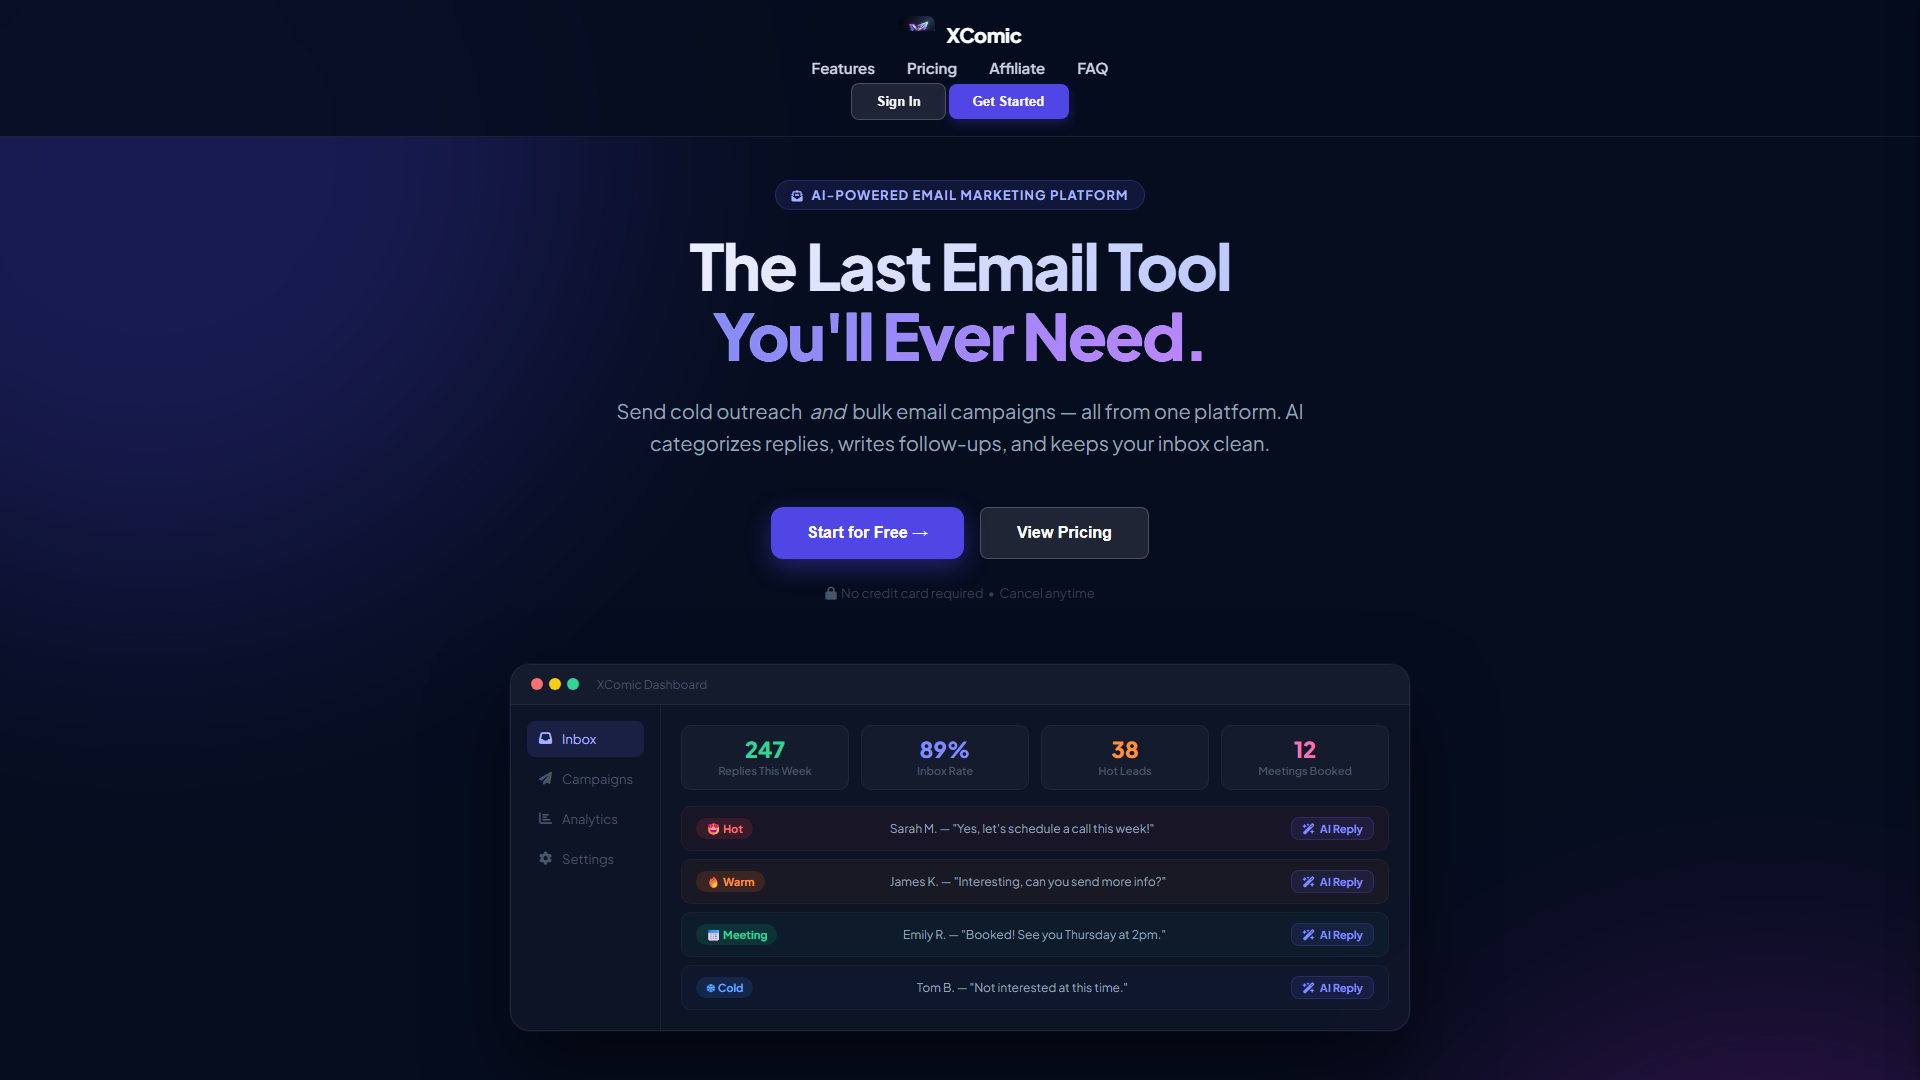
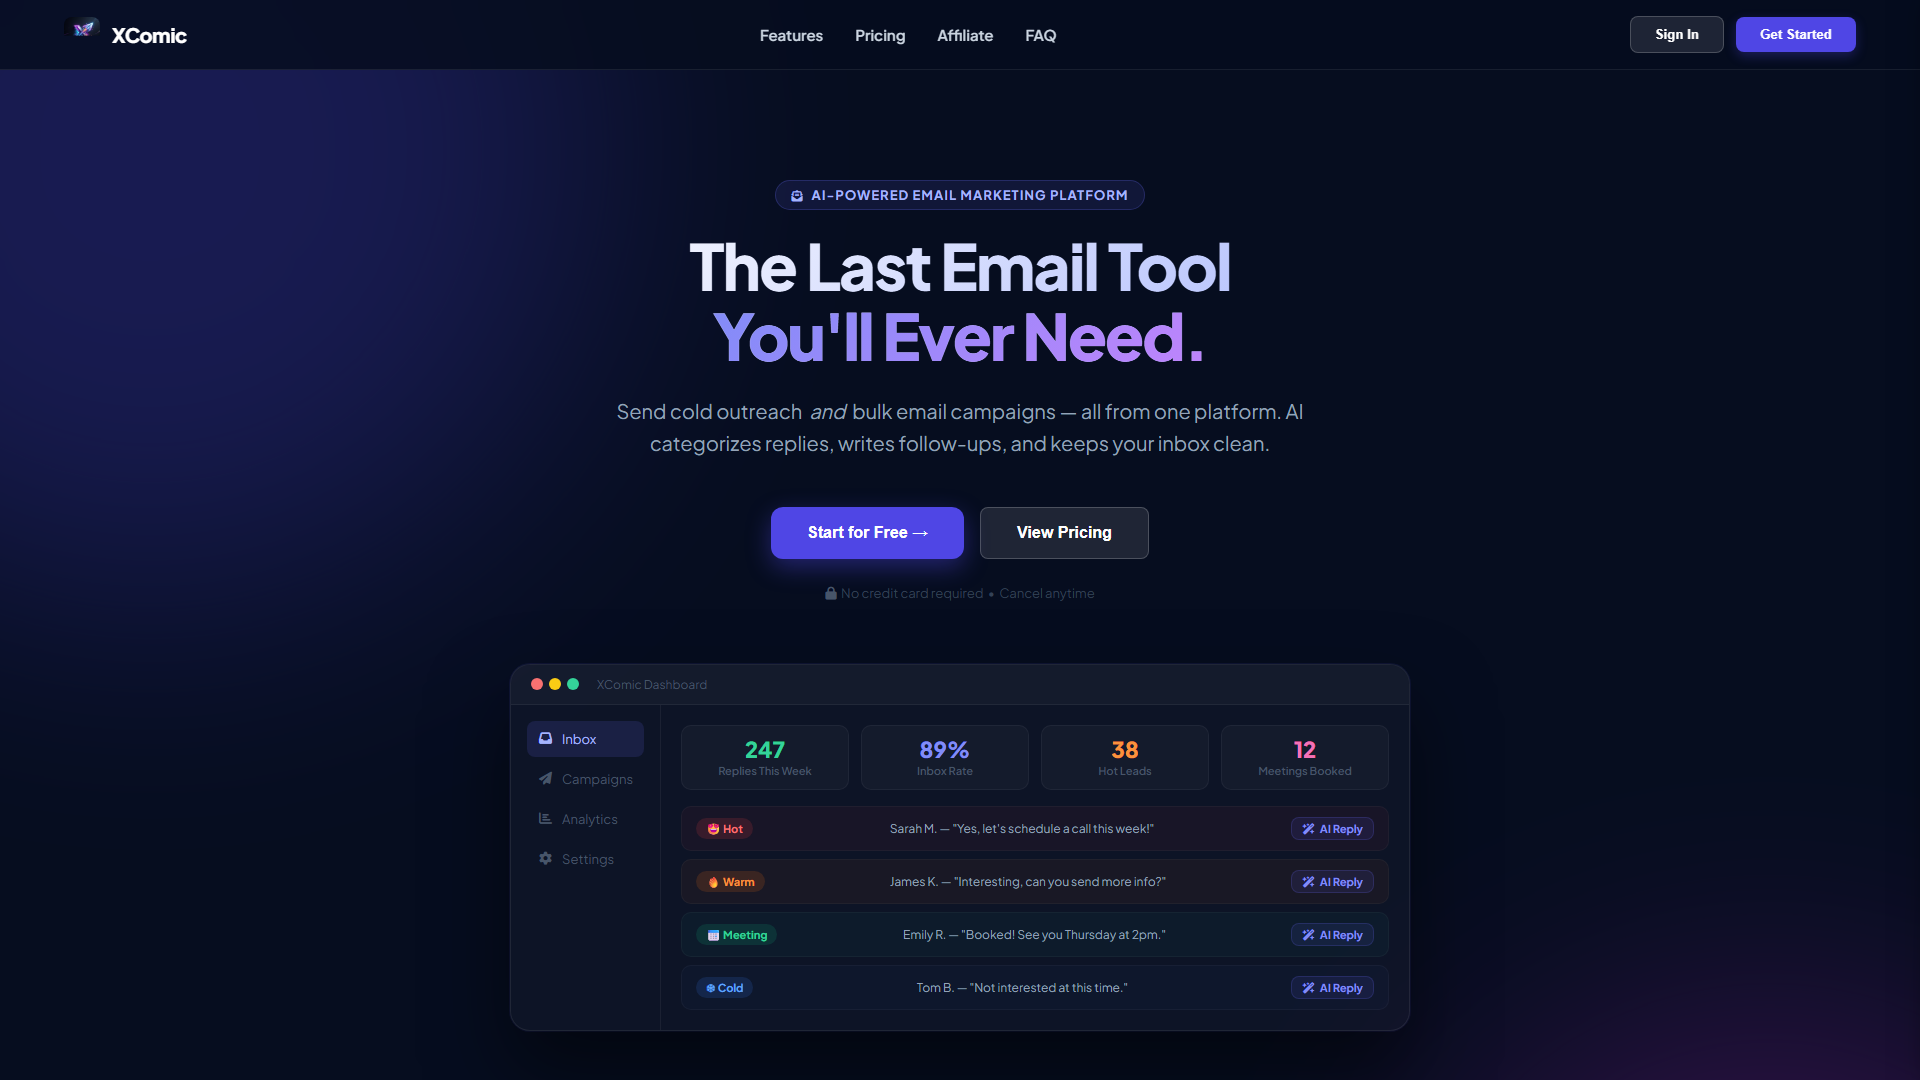
Add mobile-only UX & touch responsiveness optimizations for dashboard, visual builder, tables, and modals

diff --git a/xcomic.xyz/assets/style.css b/xcomic.xyz/assets/style.css
@@ -1485,3 +1485,146 @@ details summary::marker {
     content: "" !important;
 }
 
+/* ============================================================
+   MOBILE DASHBOARD & VISUAL BUILDER UX OPTIMIZATIONS
+   (Strictly scoped to max-width: 900px - NO CHANGES on PC)
+   ============================================================ */
+@media (max-width: 900px) {
+    /* 1. Mobile Visual Builder & Campaign Creation */
+    #campaigns-builder,
+    #cold-mail-builder,
+    .builder-container {
+        padding: 12px 8px !important;
+    }
+    
+    .builder-layout,
+    .visual-builder-layout {
+        flex-direction: column !important;
+        gap: 16px !important;
+    }
+    
+    .builder-sidebar,
+    .builder-sidebar-left,
+    .builder-sidebar-right {
+        width: 100% !important;
+        max-width: 100% !important;
+        max-height: 280px !important;
+        overflow-y: auto !important;
+        border-right: none !important;
+        border-bottom: 1px solid rgba(255,255,255,0.1) !important;
+        padding: 12px !important;
+        box-sizing: border-box !important;
+    }
+    
+    .builder-canvas-wrapper,
+    .builder-canvas {
+        width: 100% !important;
+        min-height: 320px !important;
+        padding: 12px 8px !important;
+        overflow-x: auto !important;
+        box-sizing: border-box !important;
+    }
+
+    .vb-tab-bar,
+    .builder-tabs {
+        display: flex !important;
+        flex-direction: row !important;
+        overflow-x: auto !important;
+        -webkit-overflow-scrolling: touch !important;
+        white-space: nowrap !important;
+        padding-bottom: 6px !important;
+        gap: 8px !important;
+    }
+
+    .vb-tab,
+    .builder-tab-btn {
+        flex-shrink: 0 !important;
+        padding: 8px 14px !important;
+        font-size: 13px !important;
+    }
+
+    /* Prevent mobile browser zoom on input focus */
+    .builder-container input,
+    .builder-container select,
+    .builder-container textarea,
+    .view input,
+    .view select,
+    .view textarea,
+    .modal-content input,
+    .modal-content select,
+    .modal-content textarea {
+        font-size: 16px !important;
+    }
+
+    /* 2. Mobile Dashboard Overview Cards & Grid */
+    .overview-grid,
+    .stats-cards-grid {
+        grid-template-columns: repeat(auto-fit, minmax(140px, 1fr)) !important;
+        gap: 10px !important;
+    }
+
+    .stat-card {
+        padding: 14px 12px !important;
+    }
+
+    .stat-card-value {
+        font-size: 22px !important;
+    }
+
+    /* 3. Mobile Tables (Leads, Campaigns, Accounts) */
+    .table-responsive,
+    .data-table-wrapper {
+        width: 100% !important;
+        overflow-x: auto !important;
+        -webkit-overflow-scrolling: touch !important;
+        border-radius: 12px !important;
+    }
+
+    .data-table th,
+    .data-table td {
+        padding: 10px 12px !important;
+        font-size: 13px !important;
+        white-space: nowrap !important;
+    }
+
+    /* Touch Friendly Action Buttons */
+    .action-btn,
+    .table-action-btn {
+        min-width: 36px !important;
+        min-height: 36px !important;
+        padding: 6px !important;
+        display: inline-flex !important;
+        align-items: center !important;
+        justify-content: center !important;
+        border-radius: 8px !important;
+    }
+
+    /* 4. Mobile Modals & Slide-overs */
+    .modal-content,
+    .modal-card {
+        width: 94vw !important;
+        max-width: 480px !important;
+        max-height: 88vh !important;
+        overflow-y: auto !important;
+        padding: 20px 16px !important;
+        margin: 12px auto !important;
+        border-radius: 16px !important;
+    }
+
+    /* 5. Mobile Sticky Bottom Action Bar for Campaign Steps */
+    .builder-footer-actions,
+    .step-navigation-bar {
+        flex-direction: column !important;
+        gap: 10px !important;
+        width: 100% !important;
+    }
+
+    .builder-footer-actions button,
+    .step-navigation-bar button {
+        width: 100% !important;
+        padding: 12px 16px !important;
+        font-size: 14px !important;
+        font-weight: 700 !important;
+    }
+}
+

diff --git a/xcomic.xyz/index.html b/xcomic.xyz/index.html
@@ -54,7 +54,7 @@
 
 
 
-    <link rel="stylesheet" href="assets/style.css?v=20260809_v2500">
+    <link rel="stylesheet" href="assets/style.css?v=20260809_v2600">
 
 
 
